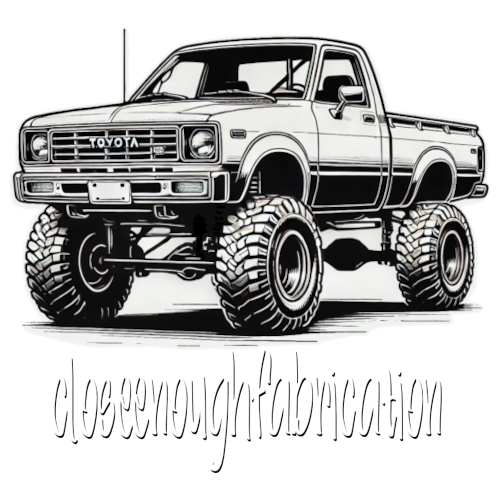
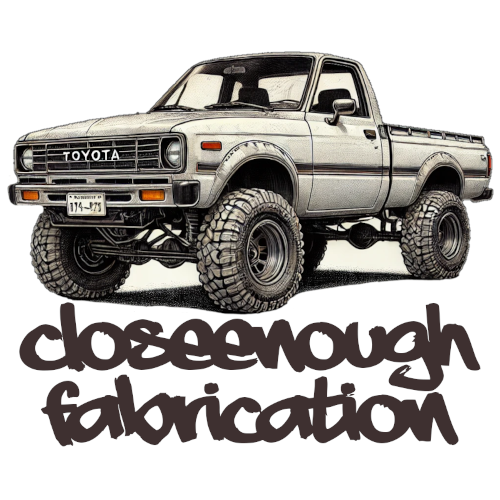
Front end updates

diff --git a/db/seeds.rb b/db/seeds.rb
@@ -28,7 +28,7 @@ PortfolioCard.create!([
     portfolio_card_url: "https://heefusdeluxe.com"
 },
 {
-    portfolio_card_title: "GhuackAMole",
+    portfolio_card_title: "GuacAMole",
     portfolio_card_description: "This is one of the first JavaScript projects created while following a freeCodeCamp tutorial (that I put my own spin on). It's not real food. Do not eat. 1 click = 1 point. Can you get to 69?",
     portfolio_card_image_url: "portfolio4",
     portfolio_card_url: "https://master.d2rge8c7efug7r.amplifyapp.com/"
@@ -51,5 +51,12 @@ Article.create!([{
     article_description: "One of the latest projects I've been working on! This one demonstrates how easy it is to implement Gems like Simple Calendar and Devise.",
     article_body: "Beard Bros Dumpsters, LLC is a company based out of Pennsylvania that offers a unique service for residents and businesses alike – dumpster delivery. This Rails app is a site built to showcase that business while streamlining the company scheduling process and other related tasks, using Gems like Devise, Bootstrap and Simple Calendar to make that happen! Head on over to beardbrosdumpsters.com and check it out!",
     article_image_url: "blog3"
+},
+{
+    article_title: "ChatGPT - Exploring the power of AI",
+    article_description: "I've spent a few days talking to AI about programming and Toyotas, and the result is something rather interesting. They aren't perfect, but I've created some pretty decent looking images of my favorite toyota trucks, check them out!",
+    article_body: "ChatGPT is not limited to messaging, it's really cool to see what people are doing with image manipulation using the same models, and I've been able to generate some pretty neat looking images to use when building applications and websites. Using retro Toyotas as a test subject, it's easy to see how powerful of a tool this can be. Head on over to chatgpt.com and check out the 'image generator', as I've found this to be the best tool for this type of job.",
+    article_image_url: "blog4"
 }
+
 ])
